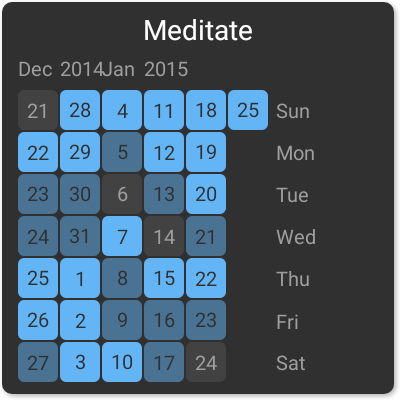
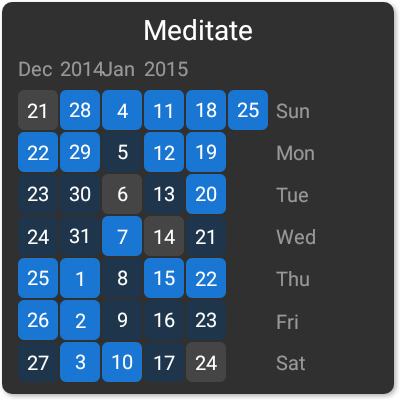
HistoryChart: Customizable first day of week

diff --git a/android/uhabits-core/src/test/java/org/isoron/uhabits/core/ui/views/HistoryChartTest.kt b/android/uhabits-core/src/test/java/org/isoron/uhabits/core/ui/views/HistoryChartTest.kt
@@ -21,6 +21,8 @@ package org.isoron.uhabits.components
 
 import kotlinx.coroutines.runBlocking
 import org.isoron.platform.gui.assertRenders
+import org.isoron.platform.time.DayOfWeek
+import org.isoron.platform.time.DayOfWeek.SUNDAY
 import org.isoron.platform.time.JavaLocalDateFormatter
 import org.isoron.platform.time.LocalDate
 import org.isoron.uhabits.core.models.PaletteColor
@@ -37,14 +39,13 @@ import java.util.Locale
 
 class HistoryChartTest {
     val base = "views/HistoryChart"
-    val fmt = JavaLocalDateFormatter(Locale.US)
-    val theme = LightTheme()
+
     val view = HistoryChart(
-        LocalDate(2015, 1, 25),
-        PaletteColor(7),
-        theme,
-        fmt,
-    ).apply {
+        today = LocalDate(2015, 1, 25),
+        paletteColor = PaletteColor(7),
+        theme = LightTheme(),
+        dateFormatter = JavaLocalDateFormatter(Locale.US),
+        firstWeekday = SUNDAY,
         series = listOf(
             2, // today
             2, 1, 2, 1, 2, 1, 2,
@@ -68,17 +69,22 @@ class HistoryChartTest {
                 else -> OFF
             }
         }
-    }
+    )
 
     // TODO: Label overflow
     // TODO: onClick
     // TODO: HistoryEditorDialog
     // TODO: Remove excessive padding on widgets
-    // TODO: First day of the week
 
     @Test
     fun testDraw() = runBlocking {
         assertRenders(400, 200, "$base/base.png", view)
+    }
+
+    @Test
+    fun testDrawWeekDay() = runBlocking {
+        view.firstWeekday = DayOfWeek.MONDAY
+        assertRenders(400, 200, "$base/weekday.png", view)
     }
 
     @Test

diff --git a/android/uhabits-core/src/main/java/org/isoron/uhabits/core/ui/screens/habits/show/ShowHabit.kt b/android/uhabits-core/src/main/java/org/isoron/uhabits/core/ui/screens/habits/show/ShowHabit.kt
@@ -78,7 +78,7 @@ class ShowHabitPresenter {
             ),
             target = TargetCardPresenter().present(
                 habit = habit,
-                firstWeekday = preferences.firstWeekday,
+                firstWeekday = preferences.firstWeekdayInt,
             ),
             streaks = StreakCartPresenter().present(
                 habit = habit,
@@ -86,11 +86,11 @@ class ShowHabitPresenter {
             scores = ScoreCardPresenter().present(
                 spinnerPosition = preferences.scoreCardSpinnerPosition,
                 habit = habit,
-                firstWeekday = preferences.firstWeekday,
+                firstWeekday = preferences.firstWeekdayInt,
             ),
             frequency = FrequencyCardPresenter().present(
                 habit = habit,
-                firstWeekday = preferences.firstWeekday,
+                firstWeekday = preferences.firstWeekdayInt,
             ),
             history = HistoryCardPresenter().present(
                 habit = habit,
@@ -100,7 +100,7 @@ class ShowHabitPresenter {
             ),
             bar = BarCardPresenter().present(
                 habit = habit,
-                firstWeekday = preferences.firstWeekday,
+                firstWeekday = preferences.firstWeekdayInt,
                 boolSpinnerPosition = preferences.barCardBoolSpinnerPosition,
                 numericalSpinnerPosition = preferences.barCardNumericalSpinnerPosition,
                 theme = theme,

diff --git a/android/uhabits-core/src/main/java/org/isoron/uhabits/core/ui/views/HistoryChart.kt b/android/uhabits-core/src/main/java/org/isoron/uhabits/core/ui/views/HistoryChart.kt
@@ -23,6 +23,7 @@ import org.isoron.platform.gui.Canvas
 import org.isoron.platform.gui.Color
 import org.isoron.platform.gui.DataView
 import org.isoron.platform.gui.TextAlign
+import org.isoron.platform.time.DayOfWeek
 import org.isoron.platform.time.LocalDate
 import org.isoron.platform.time.LocalDateFormatter
 import org.isoron.uhabits.core.models.PaletteColor
@@ -34,6 +35,8 @@ class HistoryChart(
     var paletteColor: PaletteColor,
     var theme: Theme,
     var dateFormatter: LocalDateFormatter,
+    var firstWeekday: DayOfWeek,
+    var series: List<Square>,
 ) : DataView {
 
     enum class Square {
@@ -42,9 +45,6 @@ class HistoryChart(
         DIMMED,
         HATCHED,
     }
-
-    // Data
-    var series = listOf<Square>()
 
     // Style
     var padding = 0.0
@@ -69,8 +69,11 @@ class HistoryChart(
         canvas.setFontSize(height * 0.06)
 
         val nColumns = floor((width - 2 * padding) / squareSize).toInt() - 2
-        val todayWeekday = today.dayOfWeek
-        val topLeftOffset = (nColumns - 1 + dataOffset) * 7 + todayWeekday.index
+        val firstWeekdayOffset = (
+            today.dayOfWeek.daysSinceSunday -
+                firstWeekday.daysSinceSunday + 7
+            ) % 7
+        val topLeftOffset = (nColumns - 1 + dataOffset) * 7 + firstWeekdayOffset
         val topLeftDate = today.minus(topLeftOffset)
 
         lastPrintedYear = ""

diff --git a/android/uhabits-android/src/main/java/org/isoron/uhabits/activities/habits/show/views/HistoryCardView.kt b/android/uhabits-android/src/main/java/org/isoron/uhabits/activities/habits/show/views/HistoryCardView.kt
@@ -47,15 +47,12 @@ class HistoryCardView(context: Context, attrs: AttributeSet) : LinearLayout(cont
             today = data.today,
             paletteColor = data.color,
             theme = data.theme,
-            dateFormatter = JavaLocalDateFormatter(Locale.getDefault())
-        ).apply {
-            series = data.series
-        }
+            dateFormatter = JavaLocalDateFormatter(Locale.getDefault()),
+            series = data.series,
+            firstWeekday = data.firstWeekday,
+        )
 
-        // binding.historyChart.setFirstWeekday(data.firstWeekday)
         // binding.historyChart.setSkipEnabled(data.isSkipEnabled)
-        // binding.historyChart.setEntries(data.entries)
-        // binding.historyChart.setColor(androidColor)
         // if (data.isNumerical) {
         //     binding.historyChart.setNumerical(true)
         // }

diff --git a/android/uhabits-android/src/main/java/org/isoron/uhabits/widgets/HistoryWidget.kt b/android/uhabits-android/src/main/java/org/isoron/uhabits/widgets/HistoryWidget.kt
@@ -35,8 +35,7 @@ import java.util.Locale
 class HistoryWidget(
     context: Context,
     id: Int,
-    private val habit: Habit,
-    private val firstWeekday: Int
+    private val habit: Habit
 ) : BaseWidget(context, id) {
 
     override fun getOnClickPendingIntent(context: Context): PendingIntent {
@@ -66,7 +65,9 @@ class HistoryWidget(
                     today = DateUtils.getTodayWithOffset().toLocalDate(),
                     paletteColor = habit.color,
                     theme = WidgetTheme(),
-                    dateFormatter = JavaLocalDateFormatter(Locale.getDefault())
+                    dateFormatter = JavaLocalDateFormatter(Locale.getDefault()),
+                    firstWeekday = prefs.firstWeekday,
+                    series = listOf(),
                 )
             }
         ).apply {

diff --git a/android/uhabits-core/src/main/java/org/isoron/uhabits/core/ui/screens/habits/show/views/HistoryCard.kt b/android/uhabits-core/src/main/java/org/isoron/uhabits/core/ui/screens/habits/show/views/HistoryCard.kt
@@ -19,6 +19,7 @@
 
 package org.isoron.uhabits.core.ui.screens.habits.show.views
 
+import org.isoron.platform.time.DayOfWeek
 import org.isoron.platform.time.LocalDate
 import org.isoron.uhabits.core.models.Entry
 import org.isoron.uhabits.core.models.Entry.Companion.SKIP
@@ -33,7 +34,7 @@ import kotlin.math.max
 
 data class HistoryCardViewModel(
     val color: PaletteColor,
-    val firstWeekday: Int,
+    val firstWeekday: DayOfWeek,
     val series: List<HistoryChart.Square>,
     val theme: Theme,
     val today: LocalDate,
@@ -42,7 +43,7 @@ data class HistoryCardViewModel(
 class HistoryCardPresenter {
     fun present(
         habit: Habit,
-        firstWeekday: Int,
+        firstWeekday: DayOfWeek,
         isSkipEnabled: Boolean,
         theme: Theme,
     ): HistoryCardViewModel {

diff --git a/android/uhabits-android/src/androidTest/java/org/isoron/uhabits/activities/habits/show/views/HistoryCardViewTest.kt b/android/uhabits-android/src/androidTest/java/org/isoron/uhabits/activities/habits/show/views/HistoryCardViewTest.kt
@@ -22,6 +22,7 @@ import android.view.LayoutInflater
 import android.view.View
 import androidx.test.ext.junit.runners.AndroidJUnit4
 import androidx.test.filters.MediumTest
+import org.isoron.platform.time.DayOfWeek.SUNDAY
 import org.isoron.uhabits.BaseViewTest
 import org.isoron.uhabits.R
 import org.isoron.uhabits.core.ui.screens.habits.show.views.HistoryCardPresenter
@@ -47,7 +48,7 @@ class HistoryCardViewTest : BaseViewTest() {
         view.update(
             HistoryCardPresenter().present(
                 habit = habit,
-                firstWeekday = 1,
+                firstWeekday = SUNDAY,
                 isSkipEnabled = false,
                 theme = LightTheme(),
             )

diff --git a/android/uhabits-android/src/main/java/org/isoron/uhabits/widgets/TargetWidget.kt b/android/uhabits-android/src/main/java/org/isoron/uhabits/widgets/TargetWidget.kt
@@ -46,7 +46,7 @@ class TargetWidget(
         if (preferedBackgroundAlpha >= 255) widgetView.setShadowAlpha(0x4f)
         val chart = (widgetView.dataView as TargetChart)
         val presenter = TargetCardPresenter()
-        val data = presenter.present(habit, prefs.firstWeekday)
+        val data = presenter.present(habit, prefs.firstWeekdayInt)
         chart.setColor(data.color.toThemedAndroidColor(context))
         chart.setTargets(data.targets)
         chart.setLabels(data.intervals.map { intervalToLabel(context.resources, it) })

diff --git a/android/uhabits-android/src/main/java/org/isoron/uhabits/widgets/ScoreWidget.kt b/android/uhabits-android/src/main/java/org/isoron/uhabits/widgets/ScoreWidget.kt
@@ -40,7 +40,7 @@ class ScoreWidget(
         val presenter = ScoreCardPresenter()
         val viewModel = presenter.present(
             habit = habit,
-            firstWeekday = prefs.firstWeekday,
+            firstWeekday = prefs.firstWeekdayInt,
             spinnerPosition = prefs.scoreCardSpinnerPosition
         )
         val widgetView = view as GraphWidgetView

diff --git a/android/uhabits-android/src/main/java/org/isoron/uhabits/widgets/HistoryWidgetProvider.kt b/android/uhabits-android/src/main/java/org/isoron/uhabits/widgets/HistoryWidgetProvider.kt
@@ -26,8 +26,7 @@ class HistoryWidgetProvider : BaseWidgetProvider() {
         if (habits.size == 1) return HistoryWidget(
             context,
             id,
-            habits[0],
-            preferences.firstWeekday
+            habits[0]
         )
         else return StackWidget(context, id, StackWidgetType.HISTORY, habits)
     }

diff --git a/android/uhabits-android/src/main/java/org/isoron/uhabits/widgets/FrequencyWidgetProvider.kt b/android/uhabits-android/src/main/java/org/isoron/uhabits/widgets/FrequencyWidgetProvider.kt
@@ -28,7 +28,7 @@ class FrequencyWidgetProvider : BaseWidgetProvider() {
             context,
             id,
             habits[0],
-            preferences.firstWeekday
+            preferences.firstWeekdayInt
         )
         else return StackWidget(context, id, StackWidgetType.FREQUENCY, habits)
     }

diff --git a/android/uhabits-core/src/main/java/org/isoron/platform/time/Dates.kt b/android/uhabits-core/src/main/java/org/isoron/platform/time/Dates.kt
@@ -23,7 +23,7 @@ import org.isoron.uhabits.core.models.Timestamp
 import kotlin.math.abs
 import kotlin.math.ceil
 
-enum class DayOfWeek(val index: Int) {
+enum class DayOfWeek(val daysSinceSunday: Int) {
     SUNDAY(0),
     MONDAY(1),
     TUESDAY(2),
